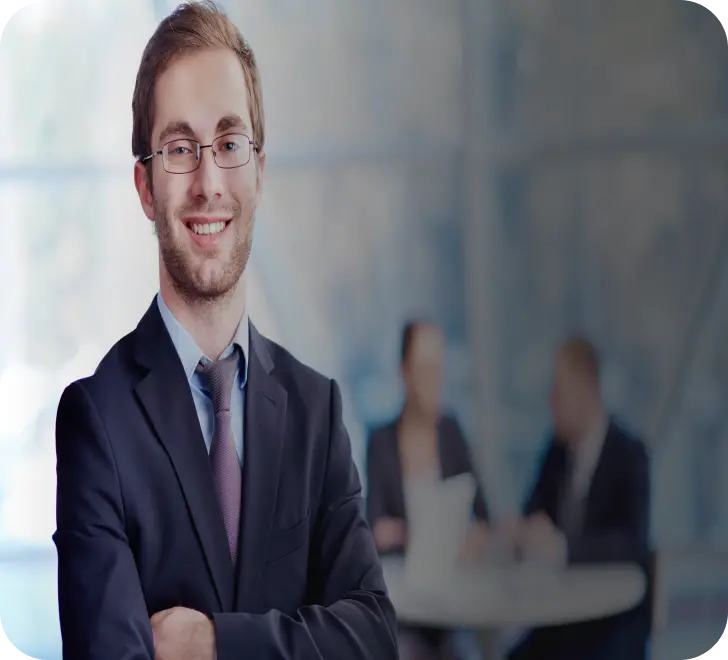
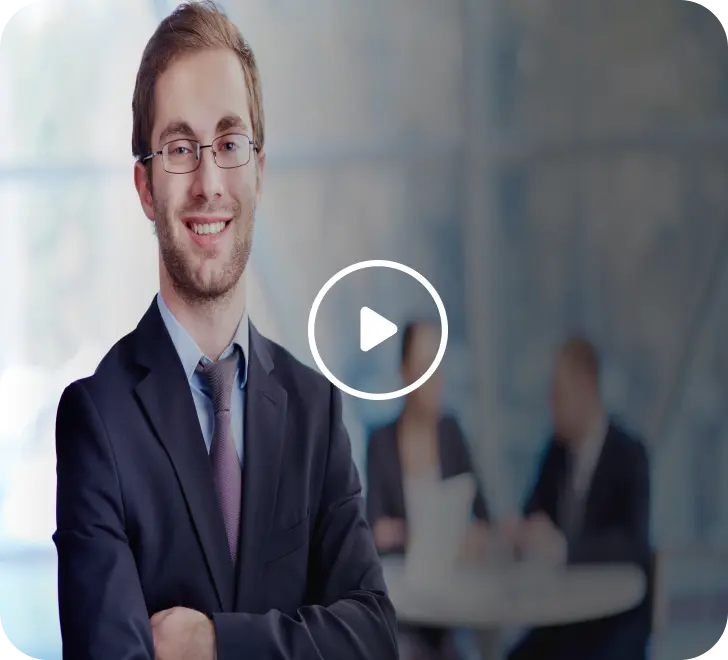
videoplayer

diff --git a/index.html b/index.html
@@ -2170,82 +2170,87 @@
                     <div class="lg:w-7/12">
                         <div class="flex flex-col">
 
-                            <div class="relative">
-                                <div id="video1" width="670" height="370" class="video_content active w-full mb-4">
-                                    <video id="videoPlayer1" poster="./assets/images/webp/Courtney_Henry.webp">
-                                        <source src="./assets/video/video1.mp4" type="video/mp4">
-                                    </video>
-
-                                    <img class="absolute top-[50%] left-[50%] translate-y-[-50%] translate-x-[-50%] w-[33px] sm:w-[45px] md:w-[56px] playPauseBtn"
-                                        onclick="togglePlayPause('videoPlayer1')"
-                                        src="./assets/images/webp/videoplayer.webp" alt="videoplayer">
+                            <div id="video1" class="video_content active relative">
+                                <video id="videoPlayer1" poster="./assets/images/webp/Courtney_Henry.webp">
+                                    <source src="./assets/video/video1.mp4" type="video/mp4">
+                                    Your browser does not support the video tag.
+                                </video>
+                                <div class="absolute top-[50%] start-[50%] translate-[-50%,-50%]"
+                                    onclick="togglePlayPause('videoPlayer1')">
+                                    <img class="max-w-[56px]" src="./assets/images/webp/videoplayer.webp"
+                                        alt="videoplayer">
                                 </div>
                             </div>
 
-                            <div class="relative">
-                                <div id="video2" class="video_content w-full mb-4 !max-w-[659px]">
-                                    <video id="videoPlayer2" poster="./assets/images/webp/Cody_Fisher_big.webp">
-                                        <source src="./assets/video/video1.mp4" type="video/mp4">
-                                    </video>
+                            <div id="video2" class="video_content active relative">
+                                <video id="videoPlayer2" poster="./assets/images/webp/Cody_Fisher_big.webp">
+                                    <source src="./assets/video/video1.mp4" type="video/mp4">
+                                    Your browser does not support the video tag.
+                                </video>
+                                <div class="absolute top-[50%] start-[50%] translate-[-50%,-50%]"
+                                    onclick="togglePlayPause('videoPlayer2')">
+                                    <img class="max-w-[56px]" src="./assets/images/webp/videoplayer.webp"
+                                        alt="videoplayer">
                                 </div>
-                                <img class="absolute top-[50%] left-[50%] translate-y-[-50%] translate-x-[-50%] w-[33px] sm:w-[45px] md:w-[56px] playPauseBtn"
-                                    onclick="togglePlayPause('videoPlayer2')"
-                                    src="./assets/images/webp/videoplayer.webp" alt="videoplayer">
                             </div>
 
-                            <div class="relative">
-                                <div id="video3" class="video_content w-full mb-4 !max-w-[659px]">
-                                    <video id="videoPlayer3" poster="./assets/images/webp/Arlene_McCoy_big.webp">
-                                        <source src="./assets/video/video1.mp4" type="video/mp4">
-                                    </video>
+                            <div id="video3" class="video_content active relative">
+                                <video id="videoPlayer3" poster="./assets/images/webp/Arlene_McCoy_big.webp">
+                                    <source src="./assets/video/video1.mp4" type="video/mp4">
+                                    Your browser does not support the video tag.
+                                </video>
+                                <div class="absolute top-[50%] start-[50%] translate-[-50%,-50%]"
+                                    onclick="togglePlayPause('videoPlayer3')">
+                                    <img class="max-w-[56px]" src="./assets/images/webp/videoplayer.webp"
+                                        alt="videoplayer">
                                 </div>
-                                <img class="absolute top-[50%] left-[50%] translate-y-[-50%] translate-x-[-50%] w-[33px] sm:w-[45px] md:w-[56px] playPauseBtn"
-                                    onclick="togglePlayPause('videoPlayer3')"
-                                    src="./assets/images/webp/videoplayer.webp" alt="videoplayer">
                             </div>
 
-                            <div class="relative">
-                                <div id="video4" class="video_content w-full mb-4 !max-w-[659px]">
-                                    <video id="videoPlayer4" poster="./assets/images/webp/Esther_Howard_big.webp">
-                                        <source src="./assets/video/video1.mp4" type="video/mp4">
-                                    </video>
+                            <div id="video4" class="video_content active relative">
+                                <video id="videoPlayer4" poster="./assets/images/webp/Esther_Howard_big.webp">
+                                    <source src="./assets/video/video1.mp4" type="video/mp4">
+                                    Your browser does not support the video tag.
+                                </video>
+                                <div class="absolute top-[50%] start-[50%] translate-[-50%,-50%]"
+                                    onclick="togglePlayPause('videoPlayer4')">
+                                    <img class="max-w-[56px]" src="./assets/images/webp/videoplayer.webp"
+                                        alt="videoplayer">
                                 </div>
-                                <img class="absolute top-[50%] left-[50%] translate-y-[-50%] translate-x-[-50%] w-[33px] sm:w-[45px] md:w-[56px] playPauseBtn"
-                                    onclick="togglePlayPause('videoPlayer4')"
-                                    src="./assets/images/webp/videoplayer.webp" alt="videoplayer">
                             </div>
 
-                            <div class="relative">
-                                <div id="video5" class="video_content w-full mb-4 !max-w-[659px]">
-                                    <video id="videoPlayer5" poster="./assets/images/webp/Ronald_Richards_big.webp">
-                                        <source src="./assets/video/video1.mp4" type="video/mp4">
-                                    </video>
+                            <div id="video5" class="video_content active relative">
+                                <video id="videoPlayer5" poster="./assets/images/webp/Ronald_Richards_big.webp">
+                                    <source src="./assets/video/video1.mp4" type="video/mp4">
+                                    Your browser does not support the video tag.
+                                </video>
+                                <div class="absolute top-[50%] start-[50%] translate-[-50%,-50%]"
+                                    onclick="togglePlayPause('videoPlayer5')">
+                                    <img class="max-w-[56px]" src="./assets/images/webp/videoplayer.webp"
+                                        alt="videoplayer">
                                 </div>
-                                <img class="absolute top-[50%] left-[50%] translate-y-[-50%] translate-x-[-50%] w-[33px] sm:w-[45px] md:w-[56px] playPauseBtn"
-                                    onclick="togglePlayPause('videoPlayer5')"
-                                    src="./assets/images/webp/videoplayer.webp" alt="videoplayer">
                             </div>
 
-                            <div class="relative">
-                                <div id="video6" class="video_content w-full mb-4 !max-w-[659px]">
-                                    <video id="videoPlayer6" poster="./assets/images/webp/Dianne_Russell_big.webp">
-                                        <source src="./assets/video/video1.mp4" type="video/mp4">
-                                    </video>
+                            <div id="video6" class="video_content active relative">
+                                <video id="videoPlayer6" poster="./assets/images/webp/Dianne_Russell_big.webp">
+                                    <source src="./assets/video/video1.mp4" type="video/mp4">
+                                    Your browser does not support the video tag.
+                                </video>
+                                <div class="absolute top-[50%] start-[50%] translate-[-50%,-50%]"
+                                    onclick="togglePlayPause('videoPlayer6')">
+                                    <img class="max-w-[56px]" src="./assets/images/webp/videoplayer.webp"
+                                        alt="videoplayer">
                                 </div>
-                                <img class="absolute top-[50%] left-[50%] translate-y-[-50%] translate-x-[-50%] w-[33px] sm:w-[45px] md:w-[56px] playPauseBtn"
-                                    onclick="togglePlayPause('videoPlayer6')"
-                                    src="./assets/images/webp/videoplayer.webp" alt="videoplayer">
                             </div>
-
-                            <div class="relative">
-                                <div id="video7" class="video_content w-full mb-4 !max-w-[659px]">
-                                    <video id="videoPlayer7" poster="./assets/images/webp/Ralph_Edwards1.webp">
-                                        <source src="./assets/video/video1.mp4" type="video/mp4">
-                                    </video>
+                            <div id="video7" class="video_content active relative">
+                                <video id="videoPlayer7" poster="./assets/images/webp/Ralph_Edwards_big.webp">
+                                    <source src="./assets/video/video1.mp4" type="video/mp4">
+                                    Your browser does not support the video tag.
+                                </video>
+                                <div class="absolute top-[50%] start-[50%] translate-[-50%,-50%]"
+                                    onclick="togglePlayPause('videoPlayer7')">
+                                    <img class="max-w-[56px]" src="./assets/images/webp/videoplayer.webp"
+                                        alt="videoplayer">
                                 </div>
-                                <img class="absolute top-[50%] left-[50%] translate-y-[-50%] translate-x-[-50%] w-[33px] sm:w-[45px] md:w-[56px] playPauseBtn"
-                                    onclick="togglePlayPause('videoPlayer7')"
-                                    src="./assets/images/webp/videoplayer.webp" alt="videoplayer">
                             </div>
 
                             <h3 class="ff_inter font-semibold text-lg sm:text-xl leading-[130%] text-black1">Courtney
@@ -2526,7 +2531,7 @@
                                 src="./assets/images/webp/Courtney_Henry_small.webp" alt="Courtney_Henry_small">
                             <h5
                                 class="ff_inter font-semibold text-sm sm:text-md leading-[130%] text-center mt-2.5 sm:mt-3 !text-black1">
-                                Ralph Edwards
+                                Courtney Henry
                             </h5>
                             <p
                                 class="ff_inter font-normal mt-1 sm:mt-2 text-xs sm:text-sm leading-[150%] text-black1 opacity-60 text-center">
@@ -2594,7 +2599,7 @@
                                 src="./assets/images/webp/Ralph_Edwards1.webp" alt="Ralph_Edwards1">
                             <h5
                                 class="ff_inter font-semibold text-sm sm:text-md leading-[130%] text-center mt-2.5 sm:mt-3 !text-black1">
-                                Courtney Henry
+                                Ralph Edwards
                             </h5>
                             <p
                                 class="ff_inter font-normal mt-1 sm:mt-2 text-xs sm:text-sm leading-[150%] text-black1 opacity-60 text-center">
@@ -3747,6 +3752,37 @@
                     slidesPerView: 2,
                 },
             },
+        });
+
+
+
+        function openTab(tabName) {
+            var i, tabcontent, tablinks;
+            tabcontent = document.getElementsByClassName("video_content");
+            for (i = 0; i < tabcontent.length; i++) {
+                tabcontent[i].style.display = "none";
+            }
+            document.getElementById(tabName).style.display = "block";
+            var videos = document.querySelectorAll("video");
+            for (i = 0; i < videos.length; i++) {
+                if (videos[i].id !== "videoPlayer" + tabName.charAt(tabName.length - 1)) {
+                    videos[i].pause();
+                }
+            }
+        }
+
+        function togglePlayPause(videoId) {
+            var video = document.getElementById(videoId);
+            var button = video.nextElementSibling;
+            if (video.paused || video.ended) {
+                video.play();
+            } else {
+                video.pause();
+            }
+        }
+
+        document.addEventListener("DOMContentLoaded", function () {
+            openTab("video1");
         });
 
     </script>

diff --git a/assets/js/style.js b/assets/js/style.js
@@ -142,40 +142,38 @@ toggleBtn.addEventListener("click", function () {
         content.style.display = "block";
         toggleBtn.textContent = "Show Less";
     } else {
-        // If visible, hide the content
         content.style.display = "none";
         toggleBtn.textContent = "Show More...";
     }
 });
 
 // video play function
-function openTab(tabName) {
-    var i, tabcontent, tablinks;
-    tabcontent = document.getElementsByClassName("video_content");
-    for (i = 0; i < tabcontent.length; i++) {
-        tabcontent[i].style.display = "none";
-    }
-    document.getElementById(tabName).style.display = "block";
-    var videos = document.querySelectorAll("video");
-    for (i = 0; i < videos.length; i++) {
-        if (videos[i].id !== "videoPlayer" + tabName.charAt(tabName.length - 1)) {
-            videos[i].pause();
-        }
-    }
-}
+// function openTab(tabName) {
+//     var i, tabcontent, tablinks;
+//     tabcontent = document.getElementsByClassName("video_content");
+//     for (i = 0; i < tabcontent.length; i++) {
+//         tabcontent[i].style.display = "none";
+//     }
+//     document.getElementById(tabName).style.display = "block";
+//     var videos = document.querySelectorAll("video");
+//     for (i = 0; i < videos.length; i++) {
+//         if (videos[i].id !== "videoPlayer" + tabName.charAt(tabName.length - 1)) {
+//             videos[i].pause();
+//         }
+//     }
+// }
 
-function togglePlayPause(videoId) {
-    var video = document.getElementById(videoId);
-    var button = document.querySelector("#" + videoId + "+ .playPauseBtn");
-    if (video.paused || video.ended) {
-        video.play();
-    } else {
-        video.pause();
-    }
-    button.style.display = video.paused || video.ended ? "block" : "none";
-}
+// function togglePlayPause(videoId) {
+//     var video = document.getElementById(videoId);
+//     var button = document.querySelector("#" + videoId + "+ .playPauseBtn");
+//     if (video.paused || video.ended) {
+//         video.play();
+//     } else {
+//         video.pause();
+//     }
+//     button.style.display = video.paused || video.ended ? "block" : "none";
+// }
+// document.addEventListener("DOMContentLoaded", function () {
+//     openTab("video1");
+// });
 
-
-document.addEventListener("DOMContentLoaded", function () {
-    openTab("video1");
-});

diff --git a/assets/css/style.css b/assets/css/style.css
@@ -149,3 +149,11 @@ html {
         padding-top: 0 !important;
     }
 }
+
+.video_content {
+    display: none;
+}
+
+.active {
+    display: block;
+}
